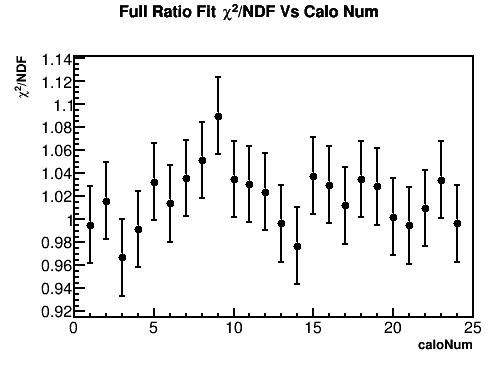
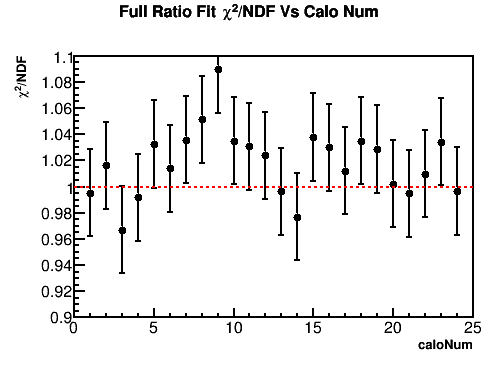
Updated per calo chi2 plots with better range and line at 1.

diff --git a/Content/AnalysisResults.tex b/Content/AnalysisResults.tex
@@ -321,7 +321,7 @@
 			\includegraphics[width=\textwidth]{RatioCBOFit_phi_cbo-phi_Vs_Calo_Canv}
 		    \caption{Fitted CBO phase on the \gmtwo phase parameter vs calorimeter number.}
 	    \end{subfigure}% %you need this % here to add spacing between subfigures
-	\caption[PerCaloPlotsExtraCBOParams]{Full ratio fit parameter values vs calorimeter number. Plotted here are the extra CBO parameters which improve most single calorimeter fits. In each CBO phase parameter, the phase varies from 0 to 2$\pi$ around the ring.}
+	\caption[PerCaloPlotsExtraCBOParams]{Full ratio fit parameter values vs calorimeter number. Plotted here are the extra CBO parameters which improve most single calorimeter fits. In each CBO phase parameter, the phase varies from 0 to 2$\pi$ around the ring, except for the $N_{2cbo}$ term where it wraps around twice.}
 	\label{fig:PerCaloPlotsExtraCBOParams}
 	\end{figure}
 
